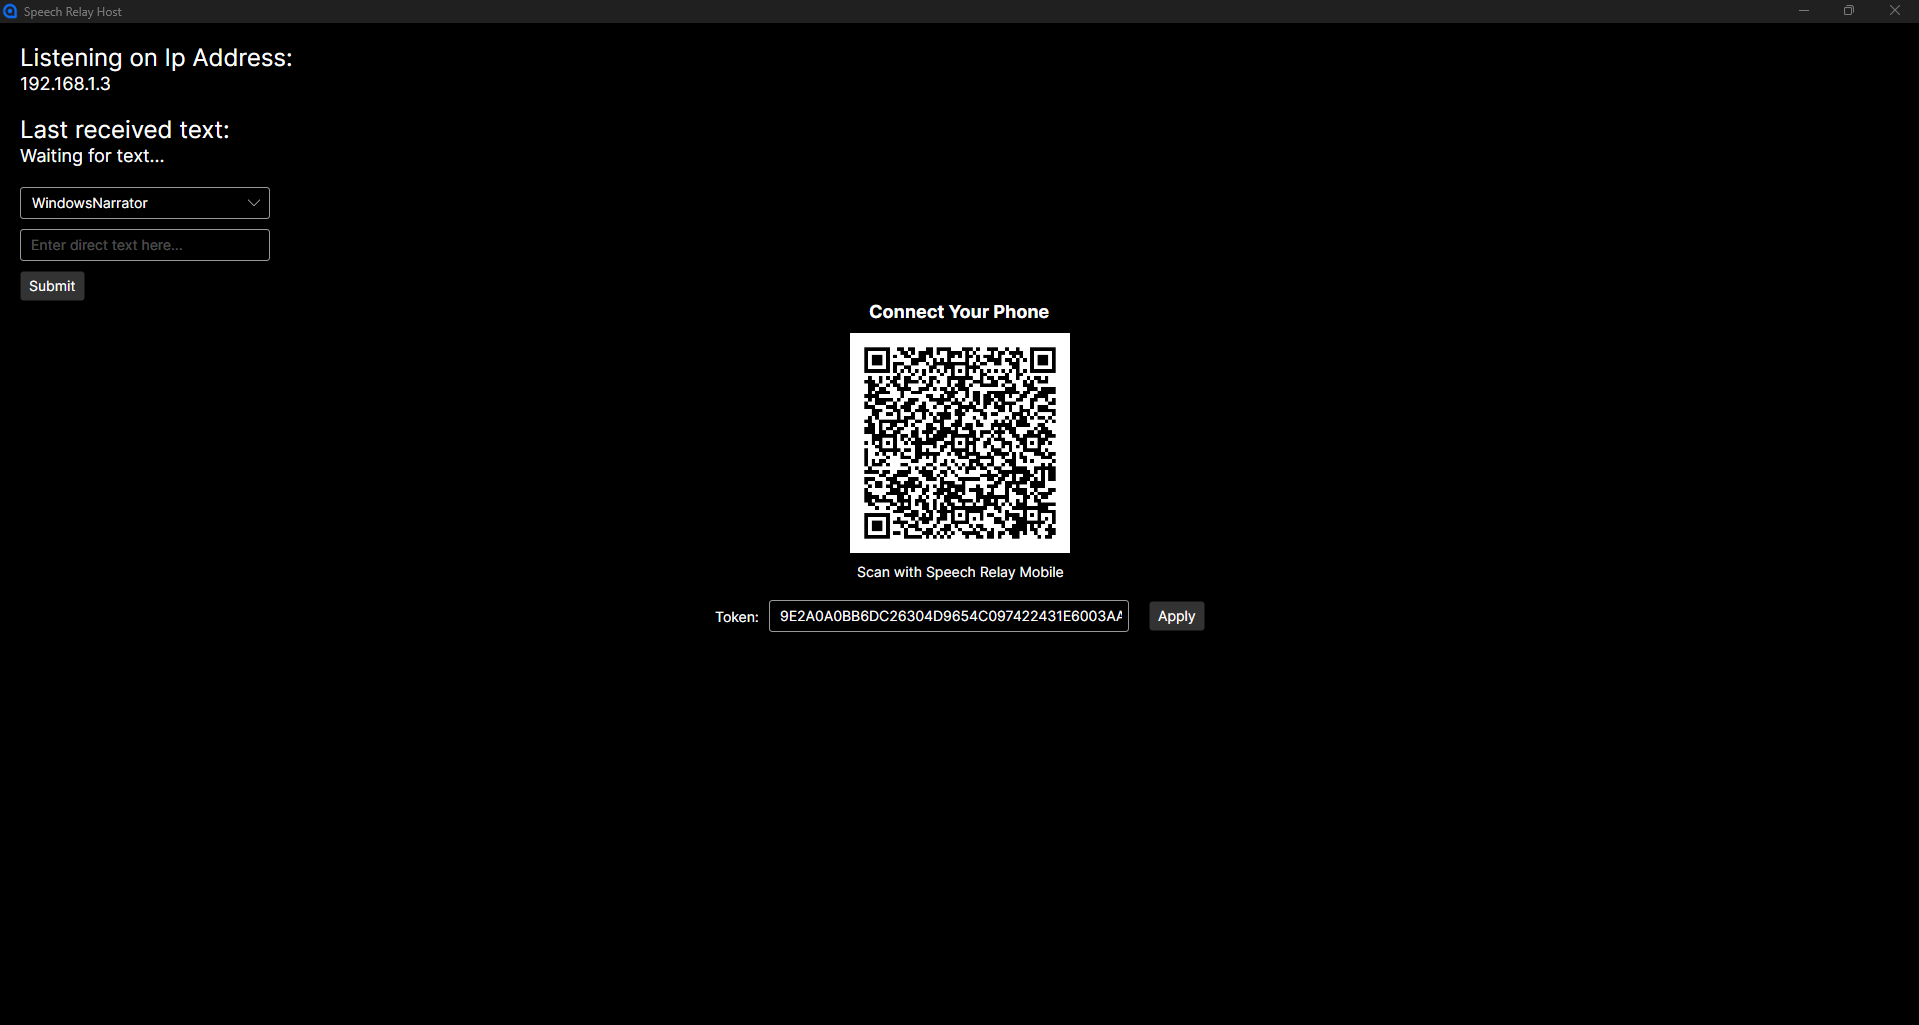
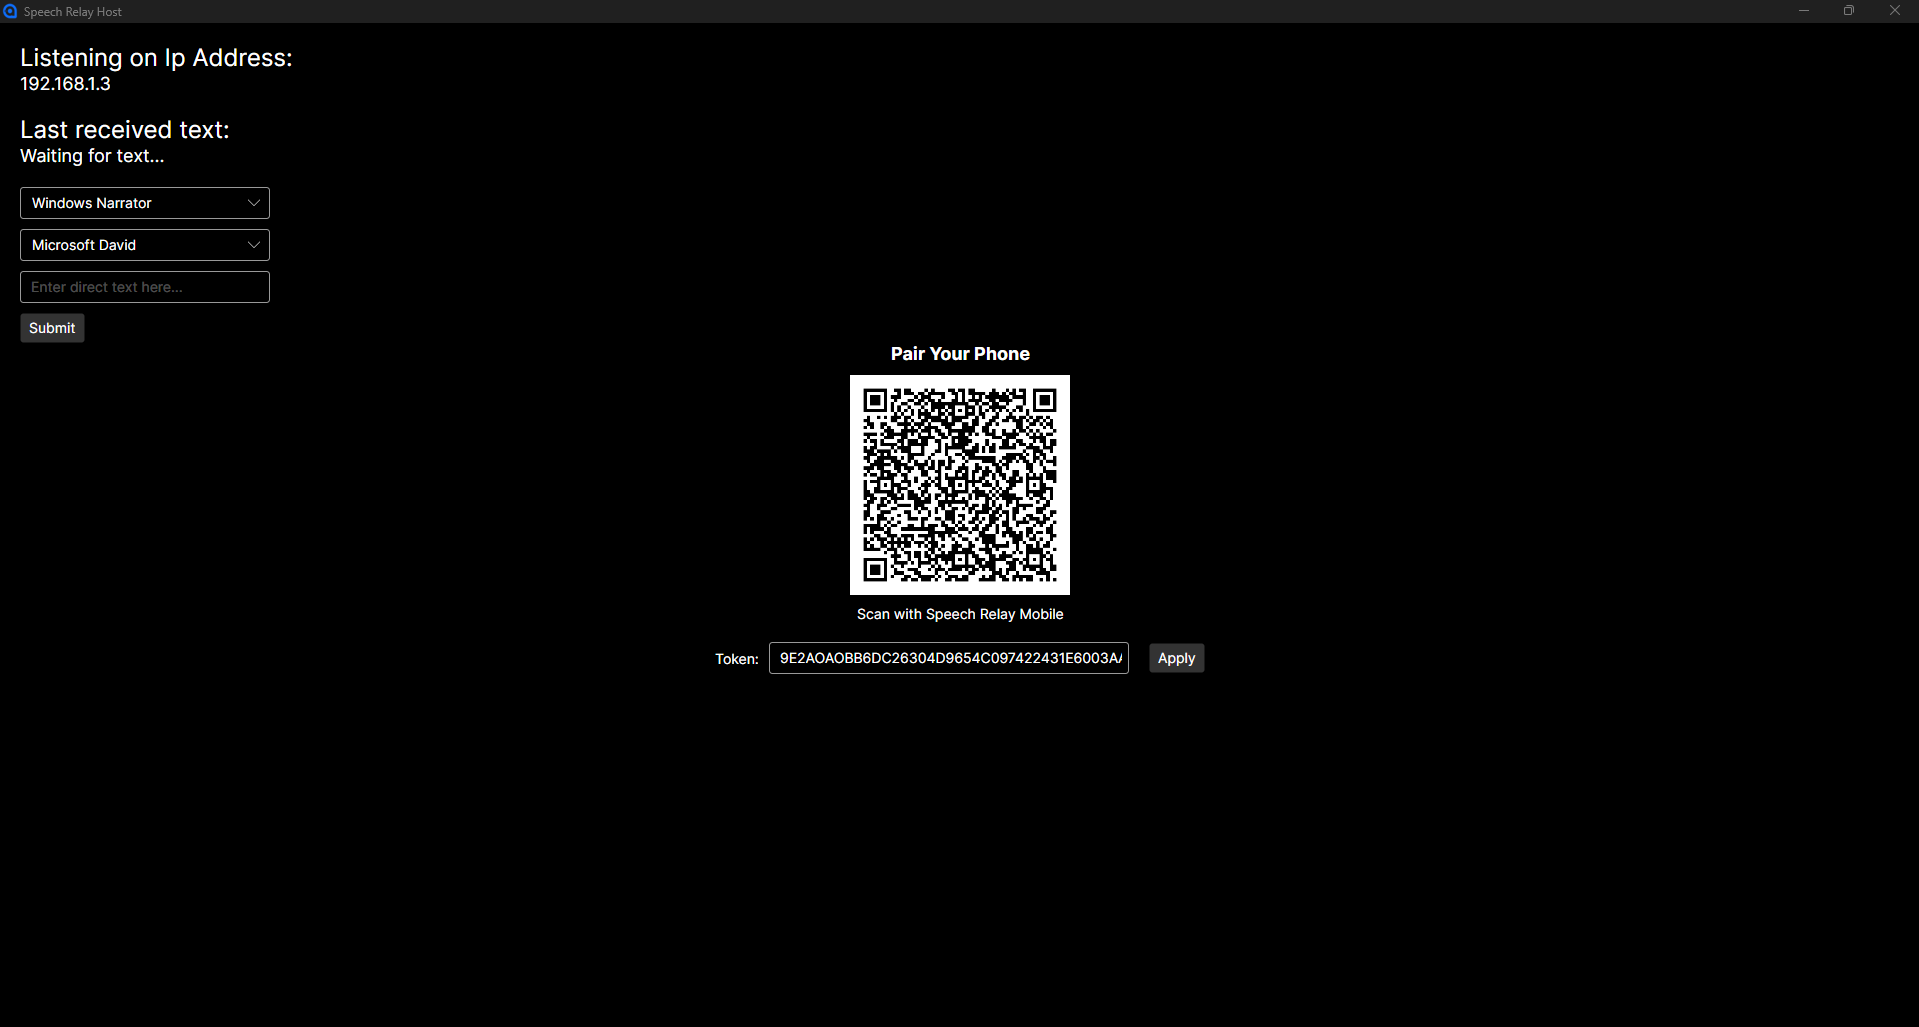
feat: add voice selection for speech relay host
* feat: add voice selection for speech relay host
* feat: add design-time MainViewModelDesign DataContext for Avalonia designer
* feat: update speech-relay-host.png
* feat: add VoiceOptions to shared solution

diff --git a/SpeechRelay.Client/SpeechRelay.Client/ViewModels/MainViewModel.cs b/SpeechRelay.Client/SpeechRelay.Client/ViewModels/MainViewModel.cs
@@ -3,6 +3,7 @@ using CommunityToolkit.Mvvm.Input;
 using Microsoft.Extensions.Configuration;
 using SpeechRelay.Client.Services;
 using SpeechRelay.Shared.Models;
+using SpeechRelay.Shared.Services;
 using System;
 using System.Collections.Generic;
 using System.Net.Http;
@@ -48,85 +49,31 @@ namespace SpeechRelay.Client.ViewModels
             var defaultPcIp = config["Api:DefaultPcIp"] ?? "";
             PcIp = string.IsNullOrEmpty(_settings.PcIp) ? defaultPcIp : _settings.PcIp;
             SelectedVoiceGenerator = _settings.SelectedVoiceGenerator;
-            if (AvailableVoices.Contains(_settings.SelectedVoice))
+
+            OnSelectedVoiceGeneratorChanged(SelectedVoiceGenerator);
+            if (!string.IsNullOrEmpty(_settings.SelectedVoice) && AvailableVoices.Contains(_settings.SelectedVoice))
             {
                 SelectedVoice = _settings.SelectedVoice;
             }
-
-            OnSelectedVoiceGeneratorChanged(SelectedVoiceGenerator);
             IsAndroid = OperatingSystem.IsAndroid();
             AuthToken = string.IsNullOrEmpty(_settings.AuthToken) ? (config["Api:AuthToken"] ?? string.Empty) : _settings.AuthToken;
         }
 
         partial void OnSelectedVoiceGeneratorChanged(string value)
         {
-            AvailableVoices = value switch
-            {
-                "Windows Narrator" => new List<string>
-                {
-                    "Microsoft David",
-                    "Microsoft Zira",
-                    "Microsoft Mark",
-                    "Microsoft Aria",
-                    "Microsoft Jenny",
-                    "Microsoft Guy"
-                },
-
-                "Azure Speech" => new List<string>
-                {
-                    "Phoebe",
-                    "Serena",
-                    "Onyx"
-                },
-
-                "Piper" => new List<string>
-                {
-                    "Joe"
-                },
-
-                _ => new List<string>()
-            };
-
-            SelectedVoice = AvailableVoices.Count > 0 ? AvailableVoices[0] : string.Empty;
-        }
-
-        private string GetVoiceName()
-        {
-            return SelectedVoice switch
-            {
-                var v when v.StartsWith("Phoebe", StringComparison.OrdinalIgnoreCase)
-                    => "en-US-Phoebe:DragonHDLatestNeural",
-                var v when v.StartsWith("Serena", StringComparison.OrdinalIgnoreCase)
-                    => "en-US-Serena:DragonHDLatestNeural",
-                var v when v.StartsWith("Onyx", StringComparison.OrdinalIgnoreCase)
-                    => "en-US-OnyxTurboMultilingualNeural",
-                var v when v.StartsWith("Joe", StringComparison.OrdinalIgnoreCase)
-                    => "en_US-joe-medium",
-                _ => SelectedVoice
-            };
-        }
-
-        private AudioGenerator GetGeneratorName()
-        {
-            return SelectedVoiceGenerator switch
-            {
-                "Windows Narrator" => AudioGenerator.WindowsNarrator,
-                "Azure Speech" => AudioGenerator.AzureSpeech,
-                "Piper" => AudioGenerator.Piper,
-                _ => AudioGenerator.WindowsNarrator
-            };
+            var generator = VoiceOptions.GetAudioGenerator(value);
+            AvailableVoices = VoiceOptions.GetVoices(generator);
+            SelectedVoice = !string.IsNullOrEmpty(SelectedVoice) && AvailableVoices.Contains(SelectedVoice)
+                ? SelectedVoice
+                : (AvailableVoices.Count > 0 ? AvailableVoices[0] : string.Empty);
         }
 
         private void SaveSettings()
         {
-            if (_settingsService == null || _settings == null)
-                return;
-
             _settings.PcIp = PcIp;
             _settings.SelectedVoice = SelectedVoice;
             _settings.SelectedVoiceGenerator = SelectedVoiceGenerator;
             _settings.AuthToken = AuthToken ?? string.Empty;
-
             _settingsService.Save(_settings);
         }
 
@@ -147,8 +94,8 @@ namespace SpeechRelay.Client.ViewModels
                 var request = new SpeechRequest
                 {
                     Text = msg,
-                    Voice = GetVoiceName(),
-                    Generator = GetGeneratorName()
+                    Voice = VoiceOptions.GetVoiceName(SelectedVoice),
+                    Generator = VoiceOptions.GetAudioGenerator(SelectedVoiceGenerator)
                 };
                 var response = await _http.PostAsJsonAsync(url, request, SpeechRelayJson.Options);
                 ServerResponse = await response.Content.ReadAsStringAsync();

diff --git a/SpeechRelay.Host/SpeechRelay.Host/ViewModels/MainWindowViewModel.cs b/SpeechRelay.Host/SpeechRelay.Host/ViewModels/MainWindowViewModel.cs
@@ -3,8 +3,9 @@ using CommunityToolkit.Mvvm.ComponentModel;
 using CommunityToolkit.Mvvm.Input;
 using Microsoft.Extensions.Configuration;
 using SpeechRelay.Host.Services;
-using SpeechRelay.Shared.Models;
+using SpeechRelay.Shared.Services;
 using System;
+using System.Collections.Generic;
 using System.IO;
 using System.Linq;
 using System.Net.NetworkInformation;
@@ -25,7 +26,13 @@ namespace SpeechRelay.Host.ViewModels
         private string inputText = "";
 
         [ObservableProperty]
-        private string selectedVoiceGenerator = "WindowsNarrator";
+        private string selectedVoiceGenerator = "";
+
+        [ObservableProperty]
+        private List<string> availableVoices = new();
+
+        [ObservableProperty]
+        private string selectedVoice = string.Empty;
 
         [ObservableProperty]
         private Bitmap? pairingQrCode;
@@ -34,6 +41,7 @@ namespace SpeechRelay.Host.ViewModels
         private string authToken = "";
 
         public IRelayCommand SubmitCommand { get; }
+        public IRelayCommand ApplyAuthTokenCommand { get; }
         private readonly IWebServer _webServer;
         private readonly IPairingQrCodeService _qrService;
         private readonly IConfiguration _config;
@@ -44,21 +52,41 @@ namespace SpeechRelay.Host.ViewModels
             _qrService = qrService;
             _config = config;
 
-            SelectedVoiceGenerator = _config["DefaultAudioGenerator"] ?? "WindowsNarrator";
+            SelectedVoiceGenerator = _config["DefaultAudioGenerator"] ?? "Windows Narrator";
+            var initialGenerator = VoiceOptions.GetAudioGenerator(SelectedVoiceGenerator);
+            AvailableVoices = VoiceOptions.GetVoices(initialGenerator);
+            SelectedVoice = AvailableVoices.Count > 0 ? AvailableVoices[0] : string.Empty;
             ListeningIp = GetWifiIp();
             UpdatePairingQrCode();
 
             _webServer.TextReceived += text =>
             {
-                LastText = text;
+                SetLastText(text);
             };
 
             SubmitCommand = new RelayCommand(async () =>
             {
-                LastText = InputText;
-                var audio = await _webServer.ProcessVoice(InputText, "", GetDefaultAudioGenerator());
+                SetLastText(InputText);
+                var audio = await _webServer.ProcessVoice(InputText, VoiceOptions.GetVoiceName(SelectedVoice), VoiceOptions.GetAudioGenerator(SelectedVoiceGenerator));
                 InputText = "";
             });
+
+            ApplyAuthTokenCommand = new RelayCommand(() =>
+            {
+                if (string.IsNullOrEmpty(AuthToken))
+                    return;
+                _config["Auth:Token"] = AuthToken;
+                UpdatePairingQrCode();
+            });
+        }
+
+        partial void OnSelectedVoiceGeneratorChanged(string value)
+        {
+            var generator = VoiceOptions.GetAudioGenerator(value);
+            AvailableVoices = VoiceOptions.GetVoices(generator);
+
+            // Default to the first available voice, if any.
+            SelectedVoice = AvailableVoices.Count > 0 ? AvailableVoices[0] : string.Empty;
         }
 
         private void UpdatePairingQrCode()
@@ -78,19 +106,9 @@ namespace SpeechRelay.Host.ViewModels
             PairingQrCode = new Bitmap(stream);
         }
 
-        [RelayCommand]
-        private void ApplyAuthToken()
+        private void SetLastText(string text)
         {
-            if (string.IsNullOrEmpty(AuthToken))
-                return;
-
-            _config["Auth:Token"] = AuthToken;
-            UpdatePairingQrCode();
-        }
-
-        public void UpdateText(string text)
-        {
-            LastText = text;
+            LastText = $"{text} (Voice: {SelectedVoice}, Generator: {SelectedVoiceGenerator})";
         }
 
         // May need to use a different method to get the IP address in the future, as this method may not work in all environments
@@ -108,16 +126,6 @@ namespace SpeechRelay.Host.ViewModels
                 .UnicastAddresses
                 .FirstOrDefault(a => a.Address.AddressFamily == AddressFamily.InterNetwork)
                 ?.Address.ToString() ?? "127.0.0.1";
-        }
-
-        private AudioGenerator GetDefaultAudioGenerator()
-        {
-            if (Enum.TryParse<AudioGenerator>(SelectedVoiceGenerator ?? "", true, out var value))
-            {
-                return value;
-            }
-
-            return AudioGenerator.WindowsNarrator;
         }
     }
 }

diff --git a/SpeechRelay.Shared/Services/VoiceOptions.cs b/SpeechRelay.Shared/Services/VoiceOptions.cs
@@ -1,0 +1,75 @@
+using SpeechRelay.Shared.Models;
+using System.Collections.Generic;
+
+namespace SpeechRelay.Shared.Services
+{
+    public static class VoiceOptions
+    {
+        /// <summary>
+        /// Returns a list of voice names available for the specified generator.
+        /// </summary>
+        public static List<string> GetVoices(AudioGenerator generator)
+        {
+            return generator switch
+            {
+                AudioGenerator.WindowsNarrator => new List<string>
+                {
+                    "Microsoft David",
+                    "Microsoft Zira",
+                    "Microsoft Mark",
+                    "Microsoft Aria",
+                    "Microsoft Jenny",
+                    "Microsoft Guy"
+                },
+                AudioGenerator.AzureSpeech => new List<string>
+                {
+                    "Phoebe",
+                    "Serena",
+                    "Onyx"
+                },
+                AudioGenerator.Piper => new List<string> { "Joe" },
+                _ => new List<string>()
+            };
+        }
+
+        /// <summary>
+        /// Maps the public generator name string to the enum value. String comparison is case‑insensitive and ignores spaces.
+        /// </summary>
+        public static AudioGenerator GetAudioGenerator(string generatorName)
+        {
+            if (string.IsNullOrEmpty(generatorName))
+            {
+                return AudioGenerator.WindowsNarrator;
+            }
+
+            var key = generatorName.Trim().Replace(" ", "").ToLowerInvariant();
+            return key switch
+            {
+                "windowsnarrator" => AudioGenerator.WindowsNarrator,
+                "azurespeech" => AudioGenerator.AzureSpeech,
+                "piper" => AudioGenerator.Piper,
+                _ => AudioGenerator.WindowsNarrator,
+            };
+        }
+
+        /// <summary>
+        /// Maps a user‑selected voice name to the full TTS voice spec used by the server.
+        /// </summary>
+        public static string GetVoiceName(string voice)
+        {
+            return voice switch
+            {
+                //Azure Speech voices
+                var v when v.StartsWith("Phoebe", System.StringComparison.OrdinalIgnoreCase) => "en-US-Phoebe:DragonHDLatestNeural",
+                var v when v.StartsWith("Serena", System.StringComparison.OrdinalIgnoreCase) => "en-US-Serena:DragonHDLatestNeural",
+                var v when v.StartsWith("Onyx", System.StringComparison.OrdinalIgnoreCase) => "en-US-OnyxTurboMultilingualNeural",
+
+                //Piper voices
+                var v when v.StartsWith("Joe", System.StringComparison.OrdinalIgnoreCase) => "en_US-joe-medium",
+
+                //Other voices
+                _ => voice
+            };
+        }
+    }
+}

diff --git a/SpeechRelay.Host/SpeechRelay.Host/ViewModels/MainWindowViewModelDesign.cs b/SpeechRelay.Host/SpeechRelay.Host/ViewModels/MainWindowViewModelDesign.cs
@@ -1,0 +1,21 @@
+using Avalonia.Media.Imaging;
+using CommunityToolkit.Mvvm.Input;
+using System.Collections.Generic;
+
+namespace SpeechRelay.Host.ViewModels
+{
+    public class MainWindowViewModelDesign : ViewModelBase
+    {
+        public string LastText { get; set; } = "Waiting for text...";
+        public string ListeningIp { get; set; } = "127.0.0.1";
+        public string InputText { get; set; } = string.Empty;
+        public string SelectedVoiceGenerator { get; set; } = "Windows Narrator";
+        public List<string> AvailableVoices { get; set; } = new List<string> { "Windows Narrator", "Piper", "Azure Speech" };
+        public string SelectedVoice { get; set; } = "";
+        public Bitmap? PairingQrCode { get; set; }
+        public string AuthToken { get; set; } = "";
+        public IRelayCommand SubmitCommand => null!;
+        public IRelayCommand ApplyAuthTokenCommand => null!;
+        public void UpdateText(string text) { }
+    }
+}

diff --git a/SpeechRelay.Client/SpeechRelay.Client/ViewModels/MainViewModelDesign.cs b/SpeechRelay.Client/SpeechRelay.Client/ViewModels/MainViewModelDesign.cs
@@ -1,0 +1,21 @@
+using CommunityToolkit.Mvvm.Input;
+using System.Collections.Generic;
+
+namespace SpeechRelay.Client.ViewModels
+{
+    public class MainViewModelDesign : ViewModelBase
+    {
+        public string PcIp { get; set; } = "127.0.0.1";
+        public string CommandText { get; set; } = string.Empty;
+        public string ServerResponse { get; set; } = string.Empty;
+        public string SelectedVoice { get; set; } = "";
+        public string SelectedPresetMsg { get; set; } = "Custom";
+        public string SelectedVoiceGenerator { get; set; } = "Windows Narrator";
+        public List<string> AvailableVoices { get; set; } = new List<string> { "Windows Narrator", "Azure Speech", "Piper" };
+        public string AuthToken { get; set; } = string.Empty;
+        public bool IsAndroid { get; set; } = false;
+
+        public IRelayCommand SendCommand => null!;
+        public IRelayCommand ScanPairingFromCameraCommand => null!;
+    }
+}
